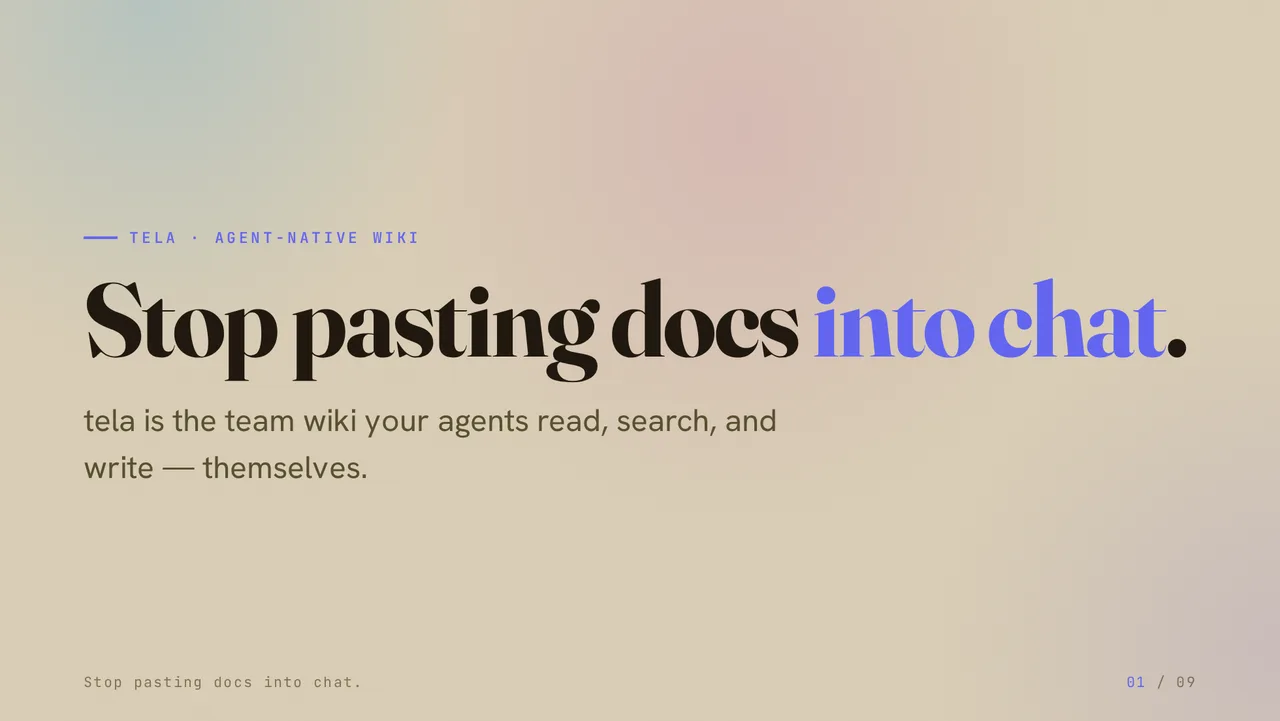
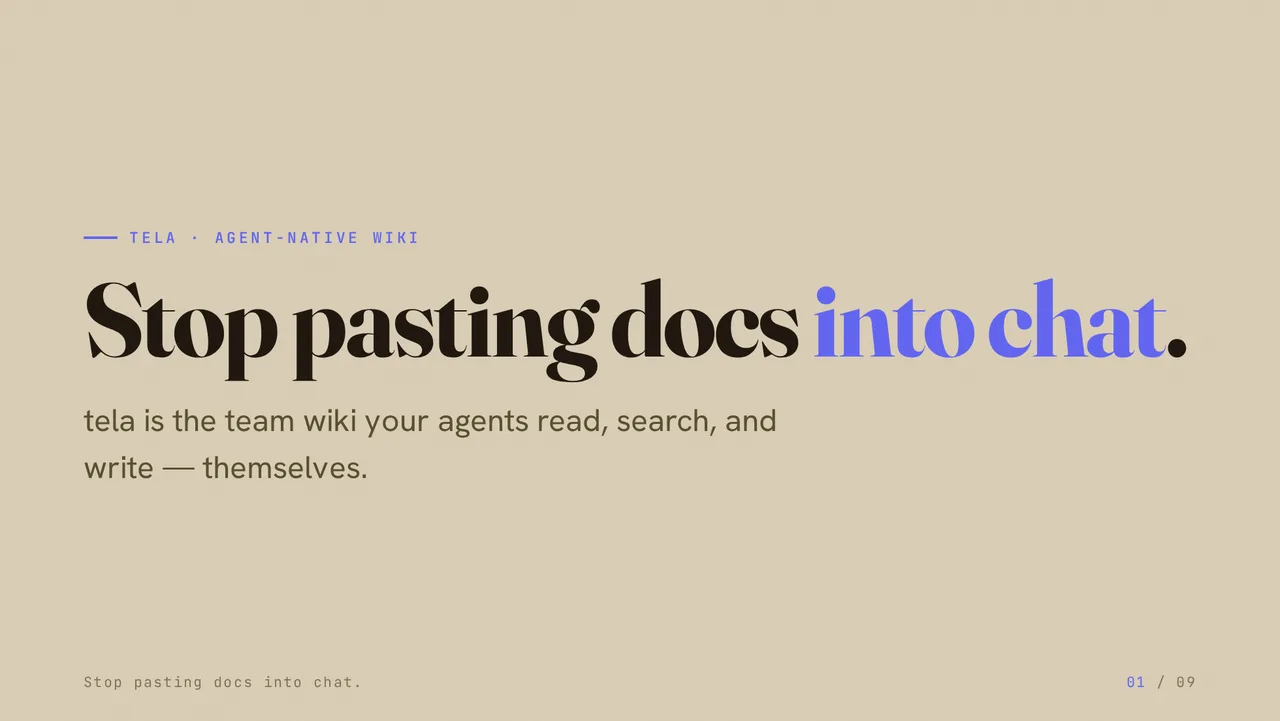
feat(landing): drop aurora/mesh slide backgrounds from the showcase deck

Changed region(s): [[0.0312, 0.0, 0.2188, 0.1831]]

diff --git a/landing/tooling/showcase-deck.md b/landing/tooling/showcase-deck.md
@@ -1,6 +1,5 @@
 ---
 layout: cover
-bg: aurora
 kicker: tela · agent-native wiki
 title: Stop pasting docs <span class="accent2">into chat</span>.
 subtitle: tela is the team wiki your agents read, search, and write — themselves.
@@ -8,7 +7,6 @@ subtitle: tela is the team wiki your agents read, search, and write — themselv
 
 ---
 layout: statement
-bg: mesh
 kicker: The problem
 title: Every task, your agent starts <em>from zero</em>.
 ---